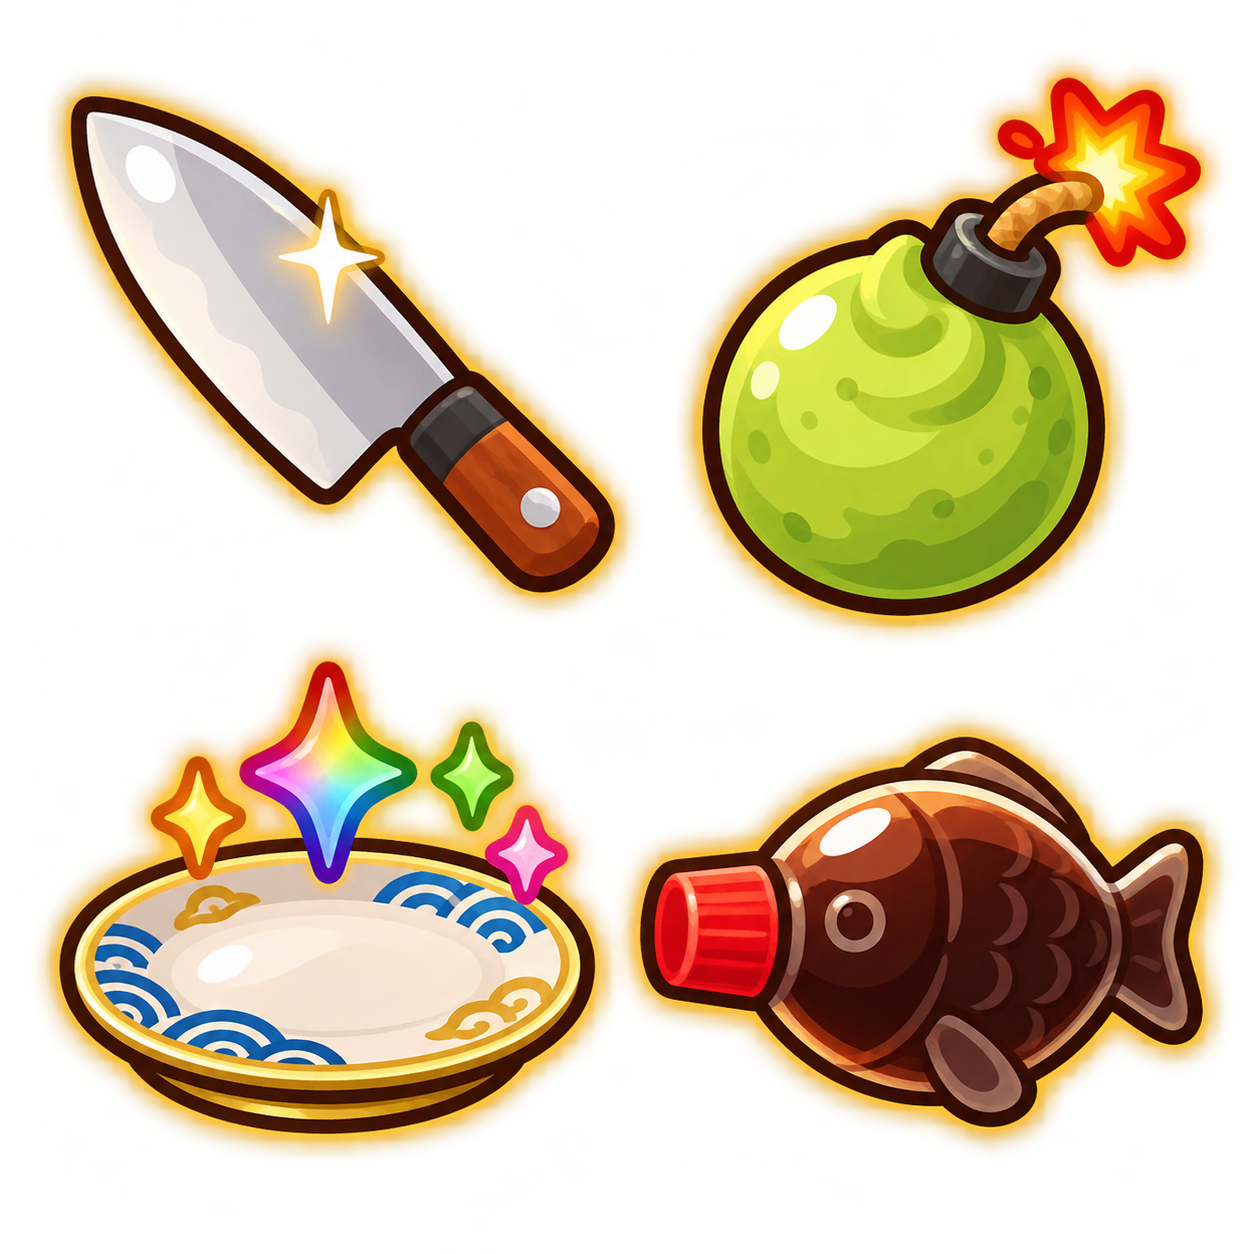
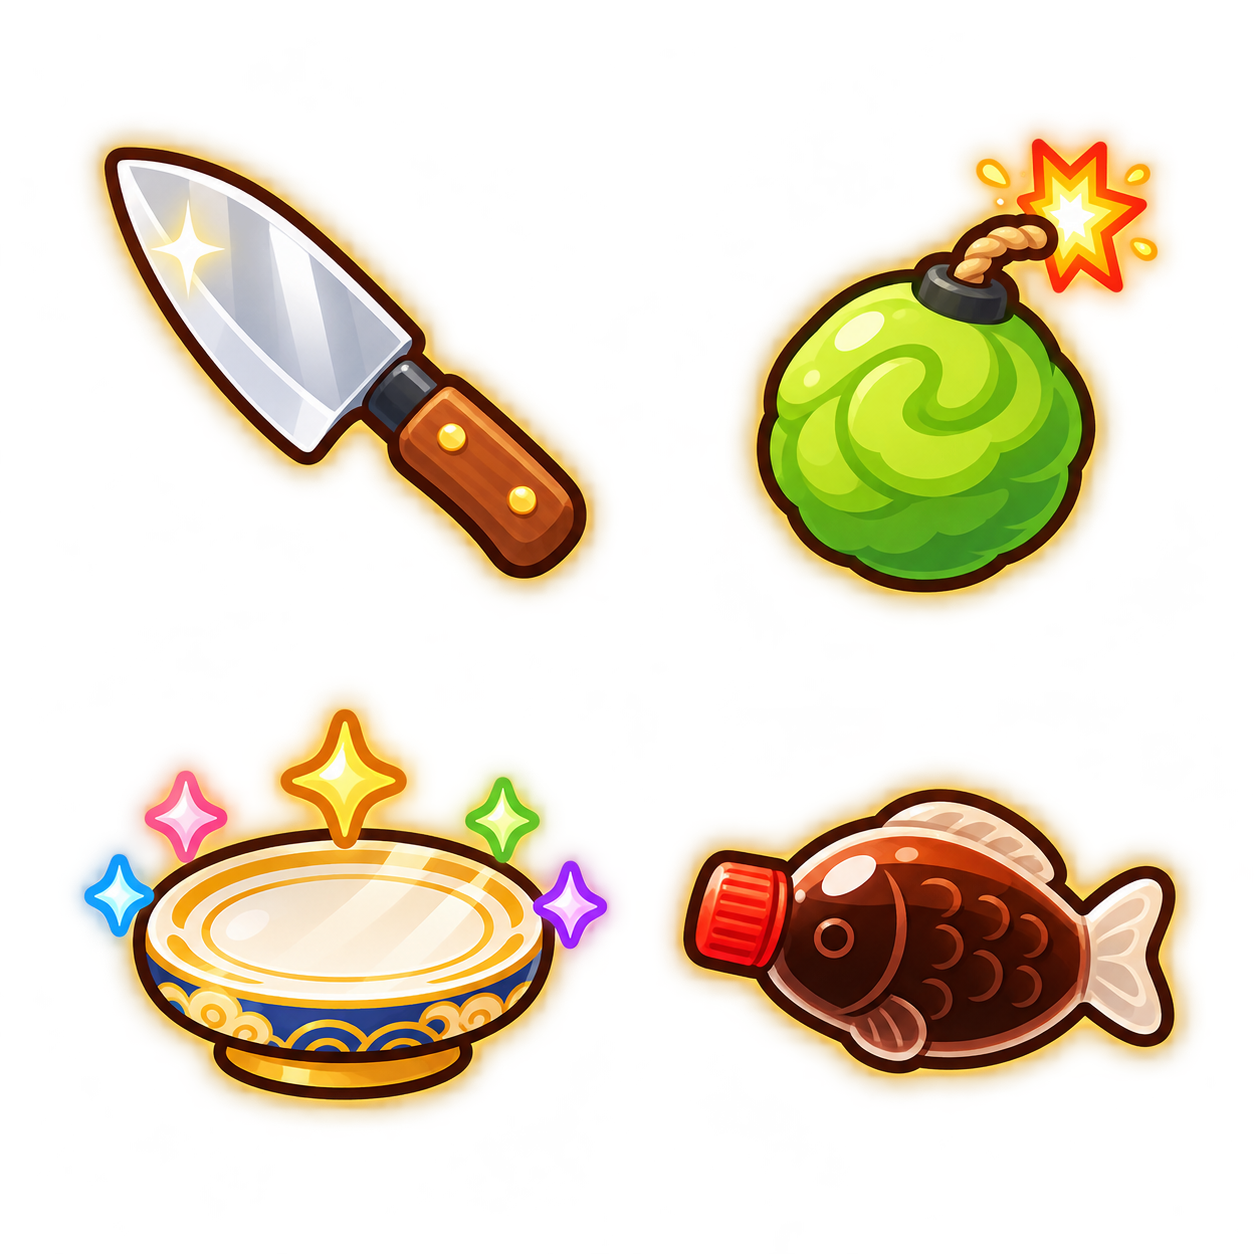
feat: use particle UI art and power-item sprites

diff --git a/lib/ui/hud.dart b/lib/ui/hud.dart
@@ -4,6 +4,7 @@ import '../core/game_engine.dart';
 import '../core/level.dart';
 import '../game/piece_painter.dart';
 import '../game/sushi_game.dart';
+import 'ui_art.dart';
 
 class HudBar extends StatelessWidget {
   const HudBar({super.key, required this.game});
@@ -57,18 +58,32 @@ class _Chip extends StatelessWidget {
   Widget build(BuildContext context) {
     final t = Theme.of(context).textTheme;
     return Container(
-      padding: const EdgeInsets.symmetric(horizontal: 12, vertical: 6),
-      decoration: BoxDecoration(
-        color: Colors.white,
-        borderRadius: BorderRadius.circular(12),
-        border: color == null ? null : Border.all(color: color!, width: 2),
-      ),
+      padding: const EdgeInsets.symmetric(horizontal: 18, vertical: 8),
+      decoration: UiArt.plankDecoration(),
       child: Column(
         mainAxisSize: MainAxisSize.min,
         children: [
-          Text(label, style: t.labelSmall),
+          Row(
+            mainAxisSize: MainAxisSize.min,
+            children: [
+              if (color != null) ...[
+                Container(
+                  width: 10,
+                  height: 10,
+                  decoration: BoxDecoration(
+                    color: color,
+                    shape: BoxShape.circle,
+                    border: Border.all(color: UiArt.ink, width: 1.5),
+                  ),
+                ),
+                const SizedBox(width: 4),
+              ],
+              Text(label, style: t.labelSmall?.copyWith(color: UiArt.ink)),
+            ],
+          ),
           Text(done ? '✓' : value,
-              style: t.titleMedium?.copyWith(fontWeight: FontWeight.bold)),
+              style: t.titleMedium
+                  ?.copyWith(fontWeight: FontWeight.bold, color: UiArt.ink)),
         ],
       ),
     );
@@ -94,39 +109,57 @@ class ResultOverlay extends StatelessWidget {
         return ColoredBox(
           color: Colors.black38,
           child: Center(
-            child: Card(
+            child: Container(
+              width: 320,
+              decoration: UiArt.panelDecoration(),
               child: Padding(
-                padding: const EdgeInsets.all(24),
-                child: Column(
-                  mainAxisSize: MainAxisSize.min,
-                  children: [
-                    Text(won ? 'Oishii! 🍣' : 'Out of moves',
-                        style: Theme.of(context).textTheme.headlineSmall),
-                    if (won) ...[
+                padding:
+                    const EdgeInsets.symmetric(horizontal: 44, vertical: 48),
+                child: DefaultTextStyle.merge(
+                  style: const TextStyle(color: UiArt.ink),
+                  child: Column(
+                    mainAxisSize: MainAxisSize.min,
+                    children: [
+                      Text(won ? 'Oishii! 🍣' : 'Out of moves',
+                          style: Theme.of(context)
+                              .textTheme
+                              .headlineSmall
+                              ?.copyWith(color: UiArt.ink)),
+                      if (won) ...[
+                        const SizedBox(height: 8),
+                        Row(
+                          mainAxisSize: MainAxisSize.min,
+                          children: [
+                            for (var i = 0; i < 3; i++)
+                              Padding(
+                                padding:
+                                    const EdgeInsets.symmetric(horizontal: 2),
+                                child: StarIcon(size: 40, lit: i < s.stars),
+                              ),
+                          ],
+                        ),
+                      ],
                       const SizedBox(height: 8),
-                      Text('★' * s.stars + '☆' * (3 - s.stars),
-                          style: const TextStyle(
-                              fontSize: 32, color: Color(0xFFF5B301))),
-                    ],
-                    const SizedBox(height: 8),
-                    Text('Score ${s.score}'),
-                    const SizedBox(height: 16),
-                    if (won && onNext != null) ...[
-                      FilledButton(
-                          onPressed: onNext, child: const Text('Next level')),
+                      Text('Score ${s.score}'),
+                      const SizedBox(height: 16),
+                      if (won && onNext != null) ...[
+                        FilledButton(
+                            onPressed: onNext, child: const Text('Next level')),
+                        const SizedBox(height: 8),
+                      ],
+                      won && onNext != null
+                          ? OutlinedButton(
+                              onPressed: game.restart,
+                              child: const Text('Play again'))
+                          : FilledButton(
+                              onPressed: game.restart,
+                              child: Text(won ? 'Play again' : 'Retry')),
                       const SizedBox(height: 8),
+                      OutlinedButton(
+                          onPressed: onLevels,
+                          child: const Text('Level select')),
                     ],
-                    won && onNext != null
-                        ? OutlinedButton(
-                            onPressed: game.restart,
-                            child: const Text('Play again'))
-                        : FilledButton(
-                            onPressed: game.restart,
-                            child: Text(won ? 'Play again' : 'Retry')),
-                    const SizedBox(height: 8),
-                    OutlinedButton(
-                        onPressed: onLevels, child: const Text('Level select')),
-                  ],
+                  ),
                 ),
               ),
             ),

diff --git a/lib/game/piece_painter.dart b/lib/game/piece_painter.dart
@@ -28,13 +28,66 @@ abstract final class PiecePainter {
   static const _sheetAsset = 'assets/sushi/sushi.png';
   static Image? _sheet;
 
+  static const _powerAsset = 'assets/sushi/power-item.png';
+  static Image? _power;
+
   /// Loads the sprite sheet (3 columns x 2 rows, in [PieceKind] order).
   /// Until it finishes, pieces fall back to the vector art.
   static Future<void> loadSprites() async {
-    if (_sheet != null) return;
-    final data = await rootBundle.load(_sheetAsset);
+    _sheet ??= await _decode(_sheetAsset);
+    _power ??= await _decode(_powerAsset);
+  }
+
+  static Future<Image> _decode(String asset) async {
+    final data = await rootBundle.load(asset);
     final codec = await instantiateImageCodec(data.buffer.asUint8List());
-    _sheet = (await codec.getNextFrame()).image;
+    return (await codec.getNextFrame()).image;
+  }
+
+  /// Power-item sheet is 2x2: knife, wasabi / omakase, soy fish.
+  static void _powerSprite(Canvas canvas, Rect dst, SpecialType type,
+      {double rotation = 0}) {
+    final sheet = _power!;
+    final cw = sheet.width / 2, ch = sheet.height / 2;
+    final i = switch (type) {
+      SpecialType.knifeRow || SpecialType.knifeCol => 0,
+      SpecialType.wasabi => 1,
+      SpecialType.omakase => 2,
+      SpecialType.soyFish => 3,
+    };
+    final src = Rect.fromLTWH((i % 2) * cw, (i ~/ 2) * ch, cw, ch);
+    canvas.save();
+    canvas.translate(dst.center.dx, dst.center.dy);
+    canvas.rotate(rotation);
+    canvas.drawImageRect(
+        sheet,
+        src,
+        Rect.fromCenter(
+            center: Offset.zero, width: dst.width, height: dst.height),
+        Paint()..filterQuality = FilterQuality.medium);
+    canvas.restore();
+  }
+
+  /// Power items stand alone (no sushi underneath). They still match by
+  /// colour, so a glow in the kind's colour sits behind the sprite.
+  /// Knife art points up-left; rotate it to lie along the row/column it clears.
+  static void _specialSprite(
+      Canvas canvas, double s, PieceKind kind, SpecialType type) {
+    canvas.drawCircle(
+      Offset(s / 2, s / 2),
+      s * 0.36,
+      Paint()
+        ..color = colors[kind]!.withValues(alpha: 0.85)
+        ..maskFilter = MaskFilter.blur(BlurStyle.normal, s * 0.12),
+    );
+    final rotation = switch (type) {
+      SpecialType.knifeRow => -math.pi / 4,
+      SpecialType.knifeCol => math.pi / 4,
+      _ => 0.0,
+    };
+    _powerSprite(
+        canvas, Rect.fromLTWH(s * 0.05, s * 0.05, s * 0.9, s * 0.9), type,
+        rotation: rotation);
   }
 
   static void _sprite(Canvas canvas, Rect dst, PieceKind kind) {
@@ -62,13 +115,21 @@ abstract final class PiecePainter {
     }
 
     if (kind == null) {
-      _plate(canvas, c, s);
+      if (_power != null) {
+        _powerSprite(canvas, Rect.fromLTWH(0, 0, s, s), SpecialType.omakase);
+      } else {
+        _plate(canvas, c, s);
+      }
       return;
     }
 
     if (_sheet != null) {
-      _sprite(canvas, Rect.fromLTWH(0, 0, s, s), kind);
-      _special(canvas, s, body, c, special);
+      if (special != null && _power != null) {
+        _specialSprite(canvas, s, kind, special);
+      } else {
+        _sprite(canvas, Rect.fromLTWH(0, 0, s, s), kind);
+        _special(canvas, s, body, c, special);
+      }
       return;
     }
 

diff --git a/lib/ui/ui_art.dart b/lib/ui/ui_art.dart
@@ -1,0 +1,81 @@
+import 'package:flutter/material.dart';
+
+/// Sprites cut from assets/ui/particle.png.
+abstract final class UiArt {
+  static const panel = AssetImage('assets/ui/panel.png');
+  static const plank = AssetImage('assets/ui/plank.png');
+  static const buttonRound = AssetImage('assets/ui/button_round.png');
+  static const star = AssetImage('assets/ui/star.png');
+
+  static const ink = Color(0xFF4A2E1B);
+
+  /// Wooden board with wave corners; stretches without distorting the frame.
+  static BoxDecoration panelDecoration() => const BoxDecoration(
+        image: DecorationImage(
+          image: panel,
+          fit: BoxFit.fill,
+          // Sprites are ~1200px wide: `scale` shrinks them to logical size and
+          // centerSlice is expressed in those logical units.
+          scale: 4,
+          centerSlice: Rect.fromLTRB(55, 42.5, 241.5, 95),
+        ),
+      );
+
+  static BoxDecoration plankDecoration() => const BoxDecoration(
+        image: DecorationImage(
+          image: plank,
+          fit: BoxFit.fill,
+          scale: 5,
+          centerSlice: Rect.fromLTRB(12, 12, 154, 34),
+        ),
+      );
+}
+
+/// Gold star, greyed out when [lit] is false.
+class StarIcon extends StatelessWidget {
+  const StarIcon({super.key, this.size = 20, this.lit = true});
+  final double size;
+  final bool lit;
+
+  @override
+  Widget build(BuildContext context) {
+    final img = Image(image: UiArt.star, width: size, height: size);
+    if (lit) return img;
+    return Opacity(
+      opacity: 0.35,
+      child: ColorFiltered(
+        colorFilter: const ColorFilter.matrix(<double>[
+          0.33, 0.33, 0.33, 0, 0, //
+          0.33, 0.33, 0.33, 0, 0,
+          0.33, 0.33, 0.33, 0, 0,
+          0, 0, 0, 1, 0,
+        ]),
+        child: img,
+      ),
+    );
+  }
+}
+
+/// Round red button with an icon on it.
+class RoundIconButton extends StatelessWidget {
+  const RoundIconButton(
+      {super.key, required this.icon, required this.onPressed});
+  final IconData icon;
+  final VoidCallback onPressed;
+
+  @override
+  Widget build(BuildContext context) {
+    return GestureDetector(
+      onTap: onPressed,
+      child: Container(
+        width: 48,
+        height: 48,
+        margin: const EdgeInsets.fromLTRB(12, 8, 0, 0),
+        decoration: const BoxDecoration(
+          image: DecorationImage(image: UiArt.buttonRound, fit: BoxFit.fill),
+        ),
+        child: Icon(icon, color: Colors.white),
+      ),
+    );
+  }
+}

diff --git a/lib/ui/level_select.dart b/lib/ui/level_select.dart
@@ -2,6 +2,7 @@ import 'package:flutter/material.dart';
 
 import '../core/piece.dart';
 import '../game/piece_painter.dart';
+import 'ui_art.dart';
 
 /// Kaiten-sushi style level picker: plates ride on conveyor belts, tap one to
 /// play that level.
@@ -185,11 +186,20 @@ class _Plate extends StatelessWidget {
                     color: Colors.black38, blurRadius: 4, offset: Offset(0, 3))
               ],
             ),
-            child: Text(done ? '$level ★' : '$level',
-                style: Theme.of(context)
-                    .textTheme
-                    .titleLarge
-                    ?.copyWith(fontWeight: FontWeight.bold)),
+            child: Row(
+              mainAxisSize: MainAxisSize.min,
+              children: [
+                Text('$level',
+                    style: Theme.of(context)
+                        .textTheme
+                        .titleLarge
+                        ?.copyWith(fontWeight: FontWeight.bold)),
+                if (done) ...[
+                  const SizedBox(width: 4),
+                  const StarIcon(size: 20),
+                ],
+              ],
+            ),
           ),
         ],
       ),

diff --git a/lib/main.dart b/lib/main.dart
@@ -11,6 +11,7 @@ import 'game/piece_painter.dart';
 import 'game/sushi_game.dart';
 import 'ui/hud.dart';
 import 'ui/level_select.dart';
+import 'ui/ui_art.dart';
 
 void main() async {
   WidgetsFlutterBinding.ensureInitialized();
@@ -151,8 +152,8 @@ class _GameScreenState extends State<GameScreen> {
               children: [
                 Align(
                   alignment: Alignment.centerLeft,
-                  child: IconButton(
-                    icon: const Icon(Icons.arrow_back),
+                  child: RoundIconButton(
+                    icon: Icons.arrow_back,
                     onPressed: () => Navigator.of(context).pop(),
                   ),
                 ),

diff --git a/test/widget_test.dart b/test/widget_test.dart
@@ -3,6 +3,7 @@ import 'package:flutter_test/flutter_test.dart';
 import 'package:shared_preferences/shared_preferences.dart';
 
 import 'package:sushi_match/main.dart';
+import 'package:sushi_match/ui/ui_art.dart';
 
 void main() {
   narrowTest();
@@ -22,7 +23,7 @@ void main() {
     await tester.pump();
 
     expect(find.byIcon(Icons.lock), findsNWidgets(6));
-    expect(find.text('3 ★'), findsOneWidget);
+    expect(find.byType(StarIcon), findsNWidgets(3));
   });
 }
 
